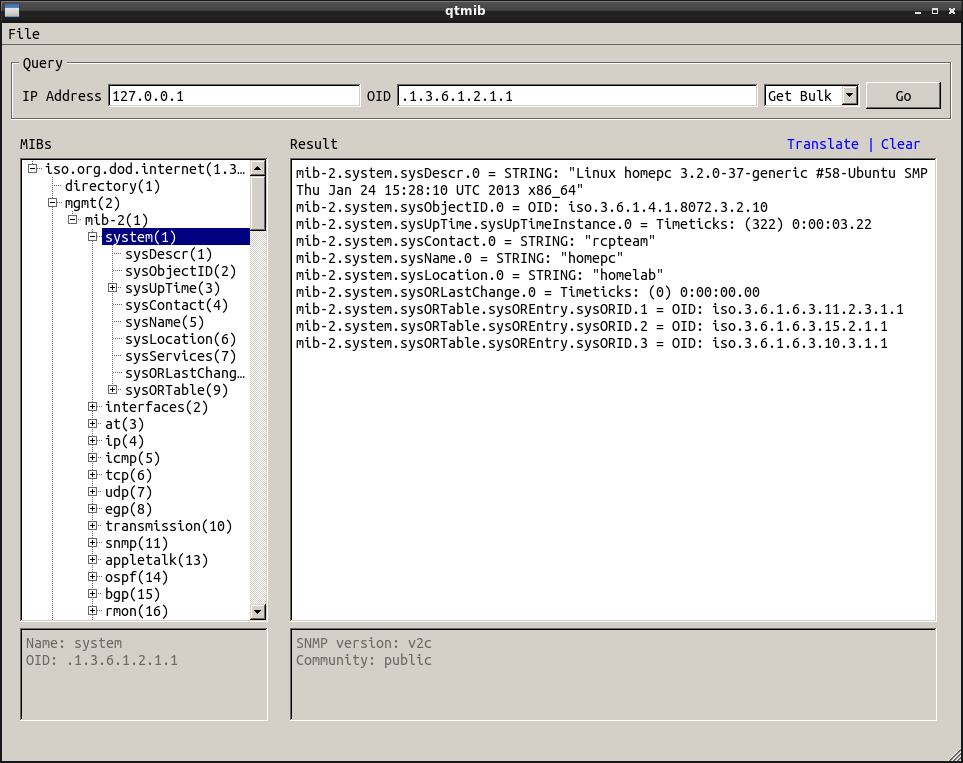
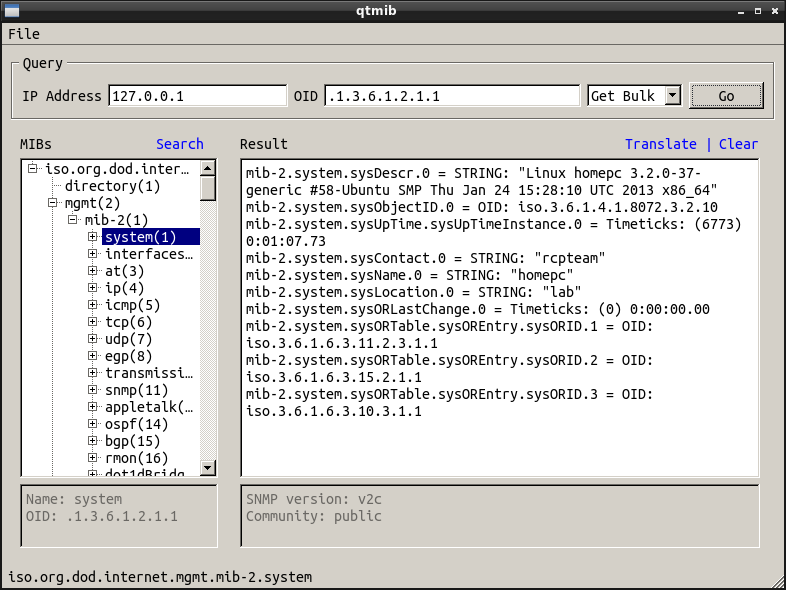
release 0.8.2 testing

Changed region(s): [[0.0, 0.0, 1.0, 1.0], [0.9771, 0.9763, 1.0, 1.0]]

diff --git a/web/index.html b/web/index.html
@@ -50,6 +50,13 @@ Additionaly, you can install private MIBs by dropping them in <i>~/.config/qtmib
 
 <a name="news"></a>
           <h3>News</h3>
+<p>June 2013 - Version 0.8.2 released</p>
+<ul>
+<li>MIB search</li>
+<li>man page</li>
+<li>bug fixes</li>
+</ul>
+
 <p>May 2013 - Version 0.8 released</p>
 <ul>
 <li>first beta testing version</li>
